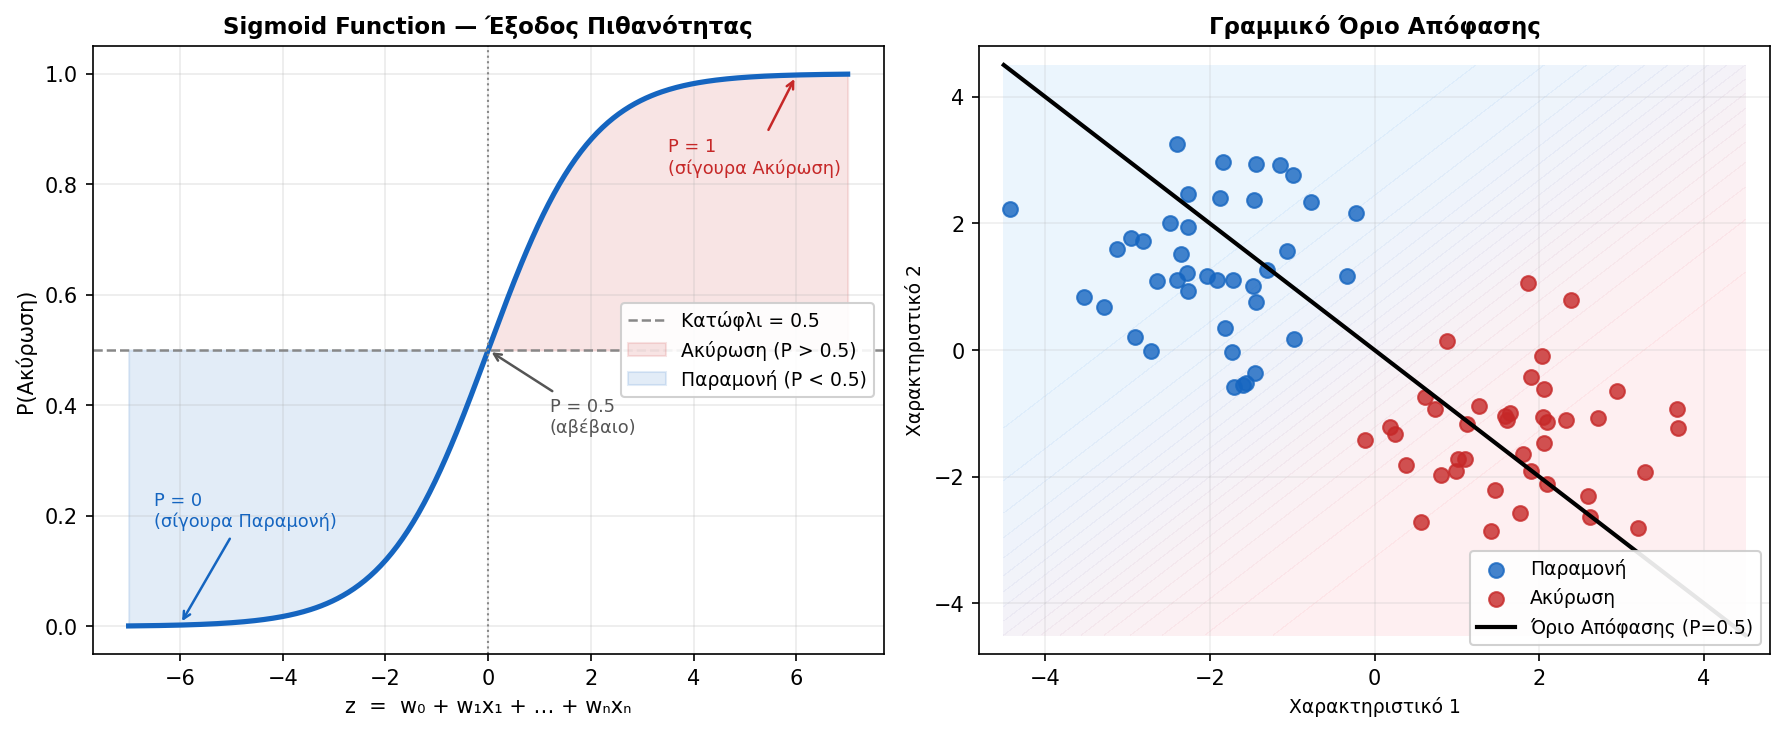
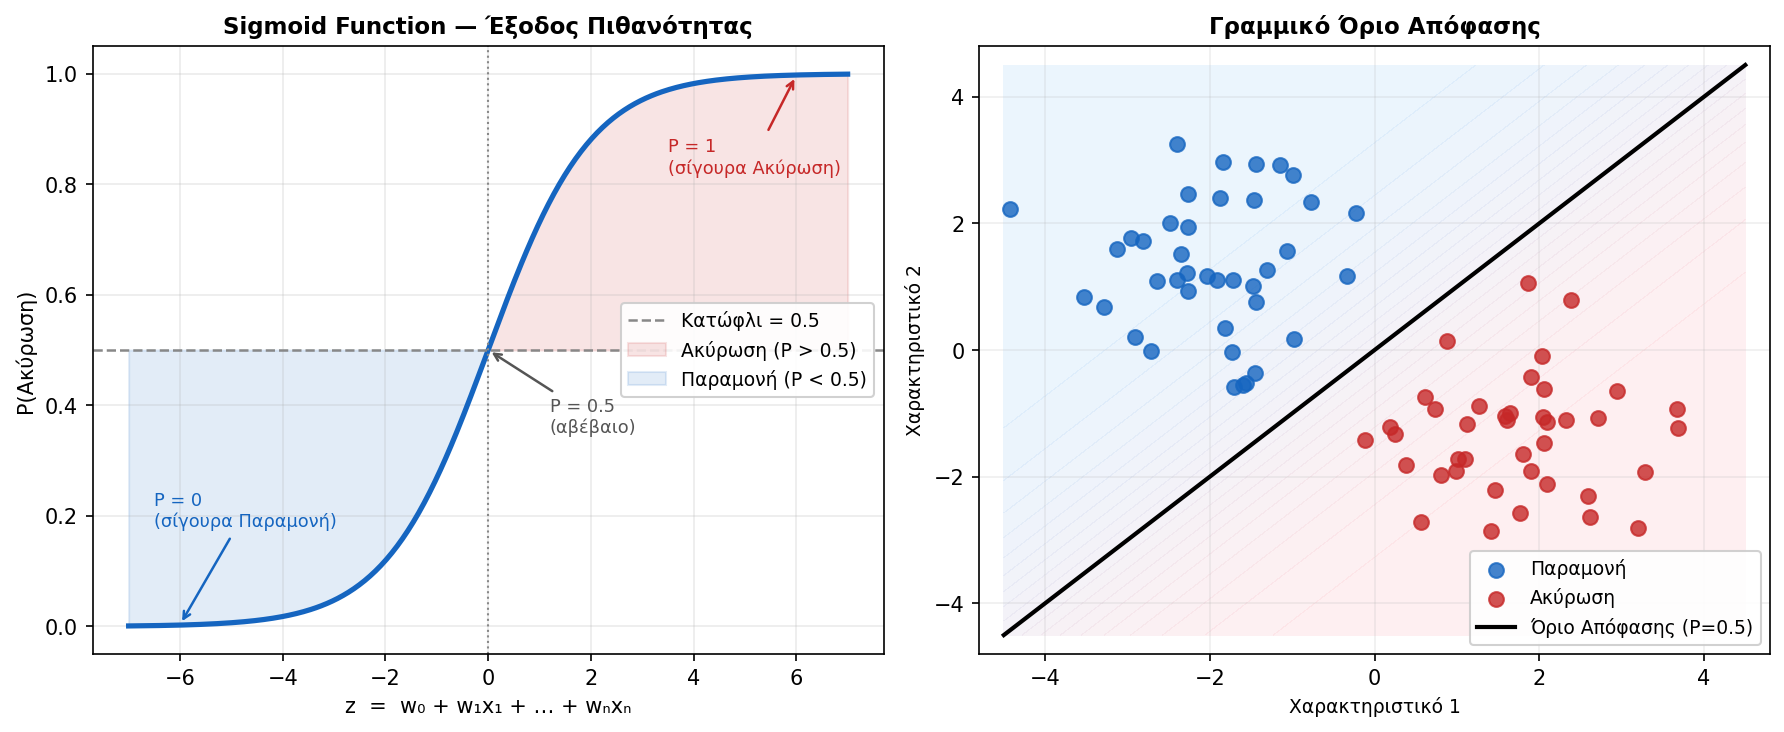
docs(lecture6): remove churn lab and correct logistic plot

diff --git a/img/lec6/gen_logistic.py b/img/lec6/gen_logistic.py
@@ -51,7 +51,7 @@ ax2.scatter(X1[:, 0], X1[:, 1], color='#C62828', s=50, label='Ακύρωση',  
 
 # Decision boundary: w·x = 0  →  x2 = -x1  (approx)
 xx = np.linspace(-4.5, 4.5, 200)
-yy = -xx
+yy = xx
 ax2.plot(xx, yy, 'k-', lw=2.0, label='Όριο Απόφασης (P=0.5)', zorder=4)
 
 # Gradient fill to suggest probability
@@ -72,6 +72,6 @@ ax2.set_ylabel('Χαρακτηριστικό 2', fontsize=9)
 ax2.grid(alpha=0.2)
 
 plt.tight_layout()
-out = '/home/rg/Teaching/uniwa/dss-data-analytics/img/lec6/logistic_illustration.png'
+out = '/home/rg/Teaching/uniwa/dss/dss-data-analytics/img/lec6/logistic_illustration.png'
 plt.savefig(out, dpi=150, bbox_inches='tight', facecolor='white')
 print(f'Saved → {out}')
